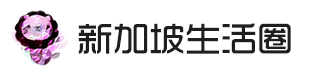
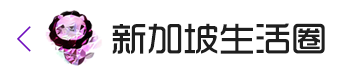
0514

Changed region(s): [[0.0285, 0.1333, 0.9399, 0.88]]

diff --git a/src/views/Home.vue b/src/views/Home.vue
@@ -1,7 +1,7 @@
 <template>
 	<div class="wrap">
 		<div class="top" v-show="barShow">
-            <div class="left"><img src="../assets/image/left.png"></div>
+            <div class="left"><a href="http://wx.worldmedia.top/singapore/"><img src="../assets/image/left.png"></a></div>
             <div class="right"><div class="btn" @click="openApp">打开APP</div></div>
         </div>
 
@@ -134,6 +134,7 @@
 </template>
 
 <script>
+import wx from 'weixin-js-sdk';
 export default {
     data() {
         return {
@@ -187,6 +188,10 @@ export default {
 		}
     },
     created(){	
+		var urlArr = location.href.split('?');//url不能写死
+        if(urlArr.length>1){
+            window.location.href = urlArr[0];
+        }
         this.init();
 	},
     methods: {
@@ -198,8 +203,11 @@ export default {
 			if(window.sessionStorage.getItem('mobile')){
 				this.mobile = window.sessionStorage.getItem('mobile');
 			}
+
+			that.share();
+
 			//this.$toast.loading({mask: true,duration:0});
-            that.$http.post("/chongzhi/index").then(result => {
+            that.$http.post("V1/chongzhi/index").then(result => {
 				this.isLoading=false;
 				//this.$toast.clear();
                 let res = result.data;
@@ -291,6 +299,53 @@ export default {
 				}
 			}
 		},
+		share(){
+            var that = this;
+            var url = 'http://chongzhi.worldmedia.top/';
+            that.$http.post("V3/weixin/wxsdk",{ reqUrl: window.location.href }).then(result => {
+                let res = result.data;
+                wx.config({ 
+                    beta: true,
+                    debug: false, //生产环境需要关闭debug模式 
+                    appId: res.appID, //appId通过微信服务号后台查看 
+                    timestamp: res.timestamp, //生成签名的时间戳 
+                    nonceStr: res.noncestr, //生成签名的随机字符串 
+                    signature: res.signature, //签名 
+                    jsApiList: [ //需要调用的JS接口列表 
+                        'onMenuShareTimeline', //分享给好友 
+                        'onMenuShareAppMessage', //分享到朋友圈 
+                    ] 
+                });
+                wx.ready(function () {
+                    //检测js接口
+                    wx.checkJsApi({
+                        jsApiList: [
+                            'onMenuShareTimeline', //检测客户微信版本是否支持该接口
+                            'onMenuShareAppMessage'
+                        ],
+                        success: function (res) {
+                            //alert(JSON.stringify(res));
+                        }
+                    });
+
+                    wx.onMenuShareTimeline({
+                        title: 'SingTel、StarHub、M1话费流量套餐人民币即时充值', // 分享标题
+                        link: url, // 分享链接
+                        imgUrl:'http://chongzhi.worldmedia.top/logo.jpg', // 分享图标
+                    });
+
+                    wx.onMenuShareAppMessage({
+                        title: 'SingTel、StarHub、M1话费流量套餐人民币即时充值', // 分享标题
+                        desc: '新加坡生活圈', // 分享描述
+                        link: url, // 分享链接，该链接域名或路径必须与当前页面对应的公众号JS安全域名一致
+                        imgUrl: 'http://chongzhi.worldmedia.top/logo.jpg', // 分享图标
+                        type: '', // 分享类型,music、video或link，不填默认为link
+                        dataUrl: '', // 如果type是music或video，则要提供数据链接，默认为空
+                    });
+                })
+                
+            });
+        },
 		doChongzhi(value){
 			if (this.mobile == "") {
                 this.$toast({message:'请输入手机号码',position:'bottom'});
@@ -323,13 +378,22 @@ export default {
 			window.sessionStorage.setItem('mobile', this.mobile);
 			this.payShow = false;
 			if(this.config.isWeiXin()){
+				let url = "app://Recharge?mobile="+this.mobile+"&payType="+this.payType+"&goodsID="+this.goods.id;
+				window.location.href = url;
+			}else{
+
+			}
+			if(this.config.isApp()){
+				let url = "app://Recharge?mobile="+this.mobile+"&payType="+this.payType+"&goodsID="+this.goods.id;
+				window.location.href = url;				
+			}else{
 				let data = {
 					mobile : this.mobile,
 					payType : this.payType,
 					goodsID : this.goods.id,
 				};
 				this.$toast.loading({mask: true,duration:0});
-				that.$http.post("/chongzhi/createOrder",data).then(result => {
+				that.$http.post("V1/chongzhi/createOrder",data).then(result => {
 					this.$toast.clear();
 					let res = result.data;
 					if (res.code == 1) {              
@@ -338,9 +402,6 @@ export default {
 						that.$dialog.alert({title:'错误信息',message:res.desc});
 					}
 				});
-			}else{
-				let url = "app://Recharge?mobile="+this.mobile+"&payType="+this.payType+"&goodsID="+this.goods.id;
-				window.location.href = url;
 			}
 		}
     }

diff --git a/src/views/Success.vue b/src/views/Success.vue
@@ -42,7 +42,7 @@ export default {
             that.order_no = that.$route.params.order_no; 
             //this.$toast.loading({mask: true,duration:0});
             let data = {order_no:that.order_no};
-            that.$http.post("/chongzhi/info",data).then(result => {
+            that.$http.post("V1/chongzhi/info",data).then(result => {
                 //this.$toast.clear();
                 that.isLoading=false;
                 let res = result.data;

diff --git a/src/httpConfig/api.js b/src/httpConfig/api.js
@@ -1,2 +1,2 @@
-const apiUrl = 'http://www.worldmedia.top/v1';//线上域名，自己改成自己的 
+const apiUrl = 'http://www.worldmedia.top/';//线上域名，自己改成自己的 
 export default apiUrl
